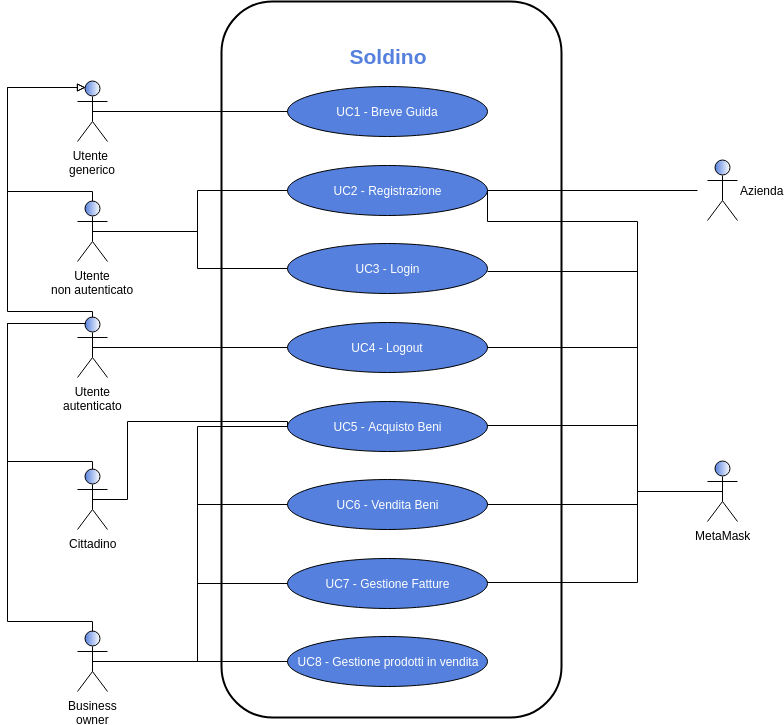
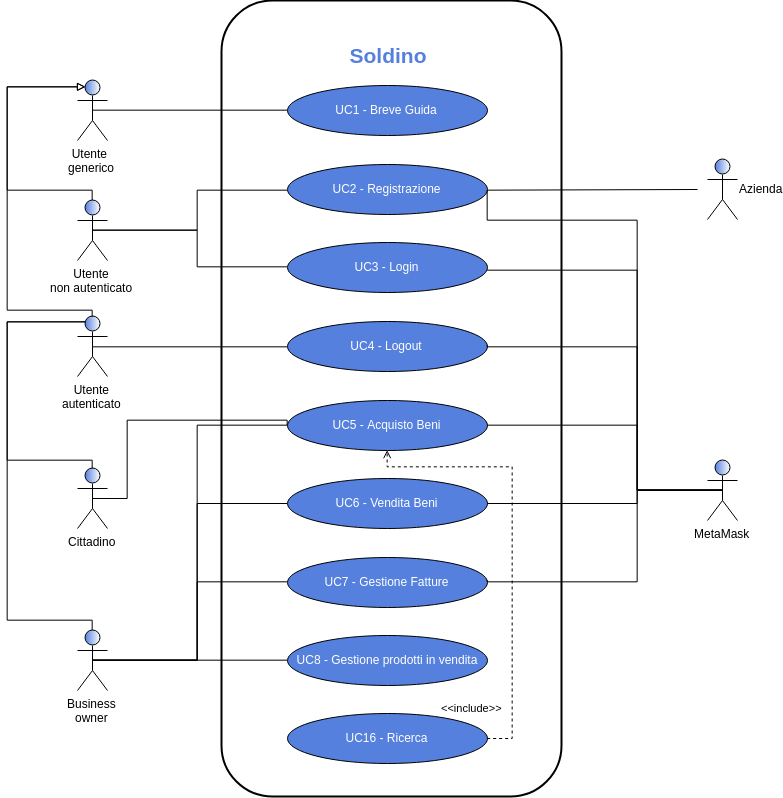
aggiunti UC 5.1 che è la selezione della quantità e UC16 che è la ricerca

diff --git a/RR/Esterni/Analisi_dei_requisiti/res/sections/Requisiti/requisiti_di_vincolo.tex b/RR/Esterni/Analisi_dei_requisiti/res/sections/Requisiti/requisiti_di_vincolo.tex
@@ -12,6 +12,33 @@
 		& \textbf{\color{white}Fonti} 
 		\tabularnewline 	
 		
+		
+		R1V1	&	Obbligatorio	&	La Dapp\glosp sviluppata dovrà avere il front end\glosp sviluppato attraverso l'uso di tecnologie web	&	Capitolato	\tabularnewline
+		R1V1.1	&	Obbligatorio	&	L'applicativo dovrà essere sviluppato utilizzando Javascript 8 (ES8)	&	Capitolato	\tabularnewline
+		R1V1.2	&	Obbligatorio	&	L'applicativo dovrà essere sviluppato utilizzando React\glo.	&	Capitolato	\tabularnewline
+		R1V1.3	&	Obbligatorio	&	L'applicativo dovrà essere sviluppato utilizzando Redux\glo.	&	Capitolato	\tabularnewline
+		R2V1.4	&	Opzionale	&	L'applicativo dovrà essere implementato affidandosi al boilerplate\glosp Gigacore\glo.	&	Capitolato	\tabularnewline
+		R3V1.5	&	Desiderabile	&	\`E desiderabile che l'applicativo venga sviluppato utilizzando SCSS\glo/Sass\glo	&	Capitolato	\tabularnewline
+		R1V2	&	Obbligatorio	&	Soldino deve rispettare lo standard EIP-712\glo.	&	Capitolato	\tabularnewline
+		R1V3.1	&	Obbligatorio	&	Gli smart contracts\glosp devono essere upgradable	&	Capitolato	\tabularnewline
+		R1V3.2	&	Obbligatorio	&	Gli smart contracs\glosp devono essere scritti in linguaggio Solidity\glo	&	Capitolato	\tabularnewline
+		R1V4.1	&	Obbligatorio	&	Per connettersi alla rete Ethereum deve essere utilizzato il plugin MetaMask\glo.	&	Capitolato	\tabularnewline
+		R1V4.2	&	Obbligatorio	&	Per poter validare ed effettuare una transazione che richiede un trasferimento di Cubit\glo, deve essere utilizzato MetaMask\glo	&	Capitolato	\tabularnewline
+		R1V5	&	Obbligatorio	&	Il sistema, ed in particolare lo sviluppo degli smart contracts\glo, deve avvenire per mezzo del framework\glosp Truffle\glo	&	Capitolato	\tabularnewline
+		R1V6	&	Obbligatorio	&	Lo sviluppo di Soldino deve comprendere l'implementazione di test di unità e di intergrazione.	&	Capitolato	\tabularnewline
+		R1V7	&	Obbligatorio	&	Il progetto deve utilizzare come minimo 4 ambienti di sviluppo: ambeinte di sviluppo locale, ambiente per il testing, ambiente per lo staging\glosp e ambiente di produzione. Il deploy in produzione è apprezzabile ma non obbligatorio.	&	Capitolato	\tabularnewline
+		R3V7.1	&	Desiderabile	&	Gli ambienti per le fasi di sviluppo locale e testing possono essere fornite da Truffle\glo, utilizzando la rete \textit{testrpc}\glosp ed il web server locale	&	Capitolato	\tabularnewline
+		R1V7.2	&	Obbligatorio	&	Durante la fase di staging l'applicazione deve pubblicamente accessibile	&	Capitolato	\tabularnewline
+		R3V7.3	&	Desiderabile	&	Come abiente per la fase di staging è desiderabile l'utilizzo della rete Ropsten\glosp e del web server Surge.sh	&	Capitolato	\tabularnewline
+		R1V7.4	&	Opzionale	&	L'ambiente di produzione deve essere composto dall'Ethereum\glosp main network assieme al web server Surge.sh	&	Capitolato	\tabularnewline
+		R1V8	&	Obbligatorio	&	L'utente non può effettuare alcuna azione prima di essersi autenticato al sistema con MetaMask\glo	&	Capitolato	\tabularnewline
+		R1V9.1	&	Obbligatorio	&	La Dapp\glosp dovrà essere accessibile ed utilizzabile utilizzando i browser Google Chrome, dalla versione 71	&	Verbale 2018-12-07  VE\_1.4	\tabularnewline
+		R1V9.2	&	Obbligatorio	&	La Dapp\glosp dovrà essere accessibile ed utilizzabile utilizzando il browser e Mozilla FireFox, dalla versione 64	&	Verbale 2018-12-07 VE\_1.4	\tabularnewline
+		R1V10	&	Obbligatorio	&	Il token utilizzato nella piattaforma, il \textit{Cubit}\glo, dovrà rispettare lo standard ECR20\glo	&	Capitolato	\tabularnewline
+		R1V11	&	Obbligatorio	&	Il sistema deve essere pubblicato con licenza MIT	&	Capitolato	\tabularnewline
+		
+		
+		
 		R1F1 & Obbligatorio & L'utente non ancora registrato può registrarsi come cittadino 
 		& Capitolato
 		\tabularnewline

diff --git a/RR/Esterni/Analisi_dei_requisiti/res/sections/UC/UC11-GestioneUtenti.tex b/RR/Esterni/Analisi_dei_requisiti/res/sections/UC/UC11-GestioneUtenti.tex
@@ -44,7 +44,7 @@
 	\item \textbf{Scenario principale}: il governo richiede la lista delle aziende registrate;
 	\item \textbf{Inclusioni}:
 	\begin{itemize}
-		\item \textbf{UC11.3}: l'utente può filtrare i risultati visualizzati inserendo una parola chiave;
+		\item \textbf{UC16}: l'utente può filtrare i risultati visualizzati inserendo una parola chiave;
 	\end{itemize}
 	\item \textbf{Precondizione}: il sistema riconosce che l'utente è autenticato con privilegi governativi ed ha richiesto di ottenere la lista di tutte aziende;
 	\item \textbf{Postcondizione}: il governo ottiene dal sistema la lista delle aziende registrate, con associate le operazioni che può effettuare su di esse.
@@ -63,20 +63,11 @@
 	\item \textbf{Scenario principale}: il governo richiede la lista dei cittadini. Per ognuno di essi visualizza le rispettive informazioni;
 	\item \textbf{Inclusioni}:
 	\begin{itemize}
-		\item \textbf{UC11.3}: l'utente può filtrare i risultati visualizzati inserendo una parola chiave;
+		\item \textbf{UC16}: l'utente può filtrare i risultati visualizzati inserendo una parola chiave;
 	\end{itemize}
 	\item \textbf{Precondizione}: il sistema riconosce che l'utente è autenticato con privilegi governativi ed ha richiesto di ottenere la lista di tutti i cittadini;
 	\item \textbf{Postcondizione}: il governo ottiene dal sistema la lista dei cittadini, con associate le operazioni che può effettuare su di essi.
 \end{itemize}
 
-
-\subsubsection{UC11.3 - Ricerca}
-\begin{itemize}
-	\item \textbf{Attori Primari}: utente autenticato;
-	\item \textbf{Descrizione}: l'utente può filtrare i risultati le informazioni che sta visualizzando inserendo una parola per la ricerca;
-	\item \textbf{Scenario principale}: l'utente sta visualizzando una lista di informazioni, digita una parola chiave per la ricerca nella barra apposita per filtrare i risultati e poter trovare delle informazioni più specifiche;
-	\item \textbf{Precondizione}: il sistema ha reso disponibile la barra di ricerca per filtrare i risultati;
-	\item \textbf{Postcondizione}: i risultati sono stati filtrati. Vengono mostrati solo i risultati che contengono la parola inserita nella barra di ricerca.
-\end{itemize}
 
 

diff --git a/RR/Esterni/Analisi_dei_requisiti/res/sections/UC/UC6-Gestione-carrello.tex b/RR/Esterni/Analisi_dei_requisiti/res/sections/UC/UC6-Gestione-carrello.tex
@@ -1,6 +1,6 @@
 \subsubsection{UC6 - Gestione carrello}
  \begin{figure}[h]
-	\includegraphics[width=9cm]{res/images/UC6GestioneCarrello.png}
+	\includegraphics[width=6cm]{res/images/UC6GestioneCarrello.png}
 	\centering
 	\caption{UC6 - Gestione carrello}
 \end{figure}
@@ -19,9 +19,14 @@
  \subsubsection{UC6.1 - Inserimento prodotto}
 \begin{itemize}
 	\item \textbf{Attori Primari}: cittadino, azienda\glo;
-	\item \textbf{Descrizione}: l'utente inserisce il prodotto selezionato nel carrello;
-	\item \textbf{Scenario principale}: l'utente sta visualizzando un bene/servizio e clicca sul pulsante dedicato all'aggiunta dello stesso nel carrello virtuale;
-	\item \textbf{Precondizione}: l'utente deve poter visualizzare i dettagli di un bene/servizio ed esprime la volontà di inserire tale bene nel carrello premendo il pulsante dedicato;
+	\item \textbf{Descrizione}: l'utente inserisce il prodotto selezionato nel carrello, nella quantità desiderata;
+	\item \textbf{Scenario principale}:
+	\begin{enumerate}[label=\alph*.]
+		\item l'utente sta visualizzando i prodotti offerti [UC5];
+		\item l'utente seleziona la quantità desiderata del prodotto [UC5.1];
+		\item l'utente preme il pulsate per l'inserimento del prodotto nel carrello;
+	\end{enumerate}
+	\item \textbf{Precondizione}: l'utente deve poter visualizzare i beni/servizi ed esprime la volontà di inserire un prodotto nel carrello premendo l'apposito pulsante;
 	\item \textbf{Postcondizione}: nel carrello dell'utente è presente il bene o il servizio selezionato.
 \end{itemize}
 \subsubsection{UC6.2 - Visualizzazione prodotti del carrello}
@@ -31,6 +36,7 @@
 	\begin{itemize}
 		\item nome;
 		\item prezzo; 
+		\item quantità;
 	\end{itemize}
 	\item \textbf{Scenario principale}: l'utente si trova all'interno della pagina del proprio carrello virtuale e può visualizzare la lista dei prodotti aggiunti al carrello;
 	\item \textbf{Precondizione}: l'utente deve essere all'interno della pagina del proprio carrello;

diff --git a/RR/Esterni/Analisi_dei_requisiti/res/sections/UC/UC5-Visualizzazione-beni.tex b/RR/Esterni/Analisi_dei_requisiti/res/sections/UC/UC5-Visualizzazione-beni.tex
@@ -1,4 +1,9 @@
  \subsubsection{UC5 - Visualizzazione beni e servizi}
+  \begin{figure}[h]
+ 	\includegraphics[width=6cm]{res/images/UC5-Generale.png}
+ 	\centering
+ 	\caption{UC6 - Gestione carrello}
+ \end{figure}
  \begin{itemize}
  	\item \textbf{Attori Primari}: utente autenticato;
  	\item \textbf{Descrizione}: l'utente visualizza una lista dettagliata di informazioni relative ad un bene o servizio, esse comprendono la visualizzazione:
@@ -7,10 +12,21 @@
  		\item del prezzo lordo (in Cubit\glo);
  		\item della descrizione;
  		\item dell'immagine bene/servizio;
+ 		\item quantità di prodotto selezionata;
  	\end{itemize}
  	\item \textbf{Scenario principale}: l'utente si trova all'interno della pagina per la ricerca dei prodotti e sta visualizzando dei beni/servizi;
- 	
+	\item \textbf{Inclusioni}:
+	\begin{itemize}
+		\item \textbf{UC16}: l'utente può filtrare i risultati visualizzati inserendo una parola chiave;
+	\end{itemize}
  	\item \textbf{Precondizione}: l'utente, navigando nel sito, risulta all'interno di una pagina contenente almeno un bene o servizio;
  	\item \textbf{Postcondizione}: l'utente visualizza le informazioni relative al bene/servizio, con eventuali operazioni disponibili su di esso.
  \end{itemize}
- 
+ \subsubsection{UC5.1 - Modifica della quantità selezionata}
+ \begin{itemize}
+ 	\item \textbf{Attori Primari}: cittadino, azienda\glo;
+ 	\item \textbf{Descrizione}: l'utente modifica la quantità del prodotto selezionato;
+ 	\item \textbf{Scenario principale}: l'utente modifica la quantità del prodotto selezionato utilizzando l'apposito campo;
+ 	\item \textbf{Precondizione}: l'utente sta visualizzando un prodotto ed intende modificarne la quantità selezionata;
+ 	\item \textbf{Postcondizione}: la quantità del prodotto è stata aggiornata al nuovo valore selezionato.
+ \end{itemize}

diff --git a/RR/Esterni/Analisi_dei_requisiti/res/sections/UC/UC16-Ricerca.tex b/RR/Esterni/Analisi_dei_requisiti/res/sections/UC/UC16-Ricerca.tex
@@ -1,0 +1,8 @@
+\subsubsection{UC16 - Ricerca}
+\begin{itemize}
+	\item \textbf{Attori Primari}: utente autenticato;
+	\item \textbf{Descrizione}: l'utente può filtrare i risultati delle informazioni che sta visualizzando inserendo una parola per la ricerca;
+	\item \textbf{Scenario principale}: l'utente sta visualizzando una lista di informazioni, digita una parola chiave per la ricerca nella barra apposita per filtrare i risultati e poter trovare delle informazioni più specifiche;
+	\item \textbf{Precondizione}: il sistema ha reso disponibile la barra di ricerca per filtrare i risultati;
+	\item \textbf{Postcondizione}: i risultati sono stati filtrati. Vengono mostrati solo i risultati che contengono la parola inserita nella barra di ricerca.
+\end{itemize} 

diff --git a/RR/Esterni/Analisi_dei_requisiti/res/sections/casi_duso.tex b/RR/Esterni/Analisi_dei_requisiti/res/sections/casi_duso.tex
@@ -63,4 +63,4 @@ Di seguito sono riportate tutti i casi d'uso che coinvolgono la gestione degli o
 \end{figure}
 \input{res/sections/UC/UC14CompravenditaAzienda.tex}
 \input{res/sections/UC/UC15IVAAzienda.tex}
-
+\input{res/sections/UC/UC16-Ricerca.tex}
